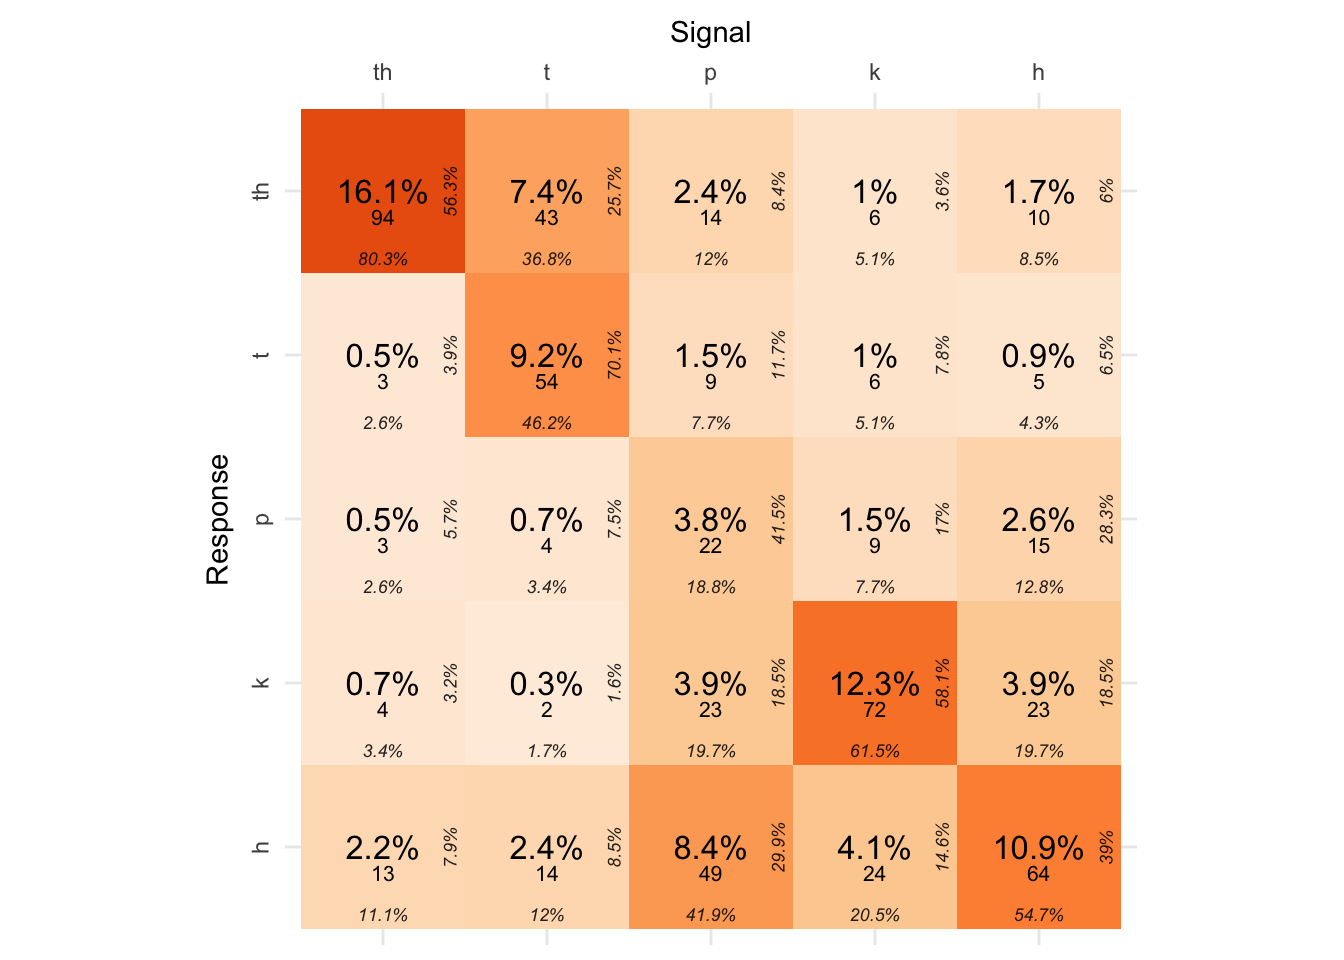
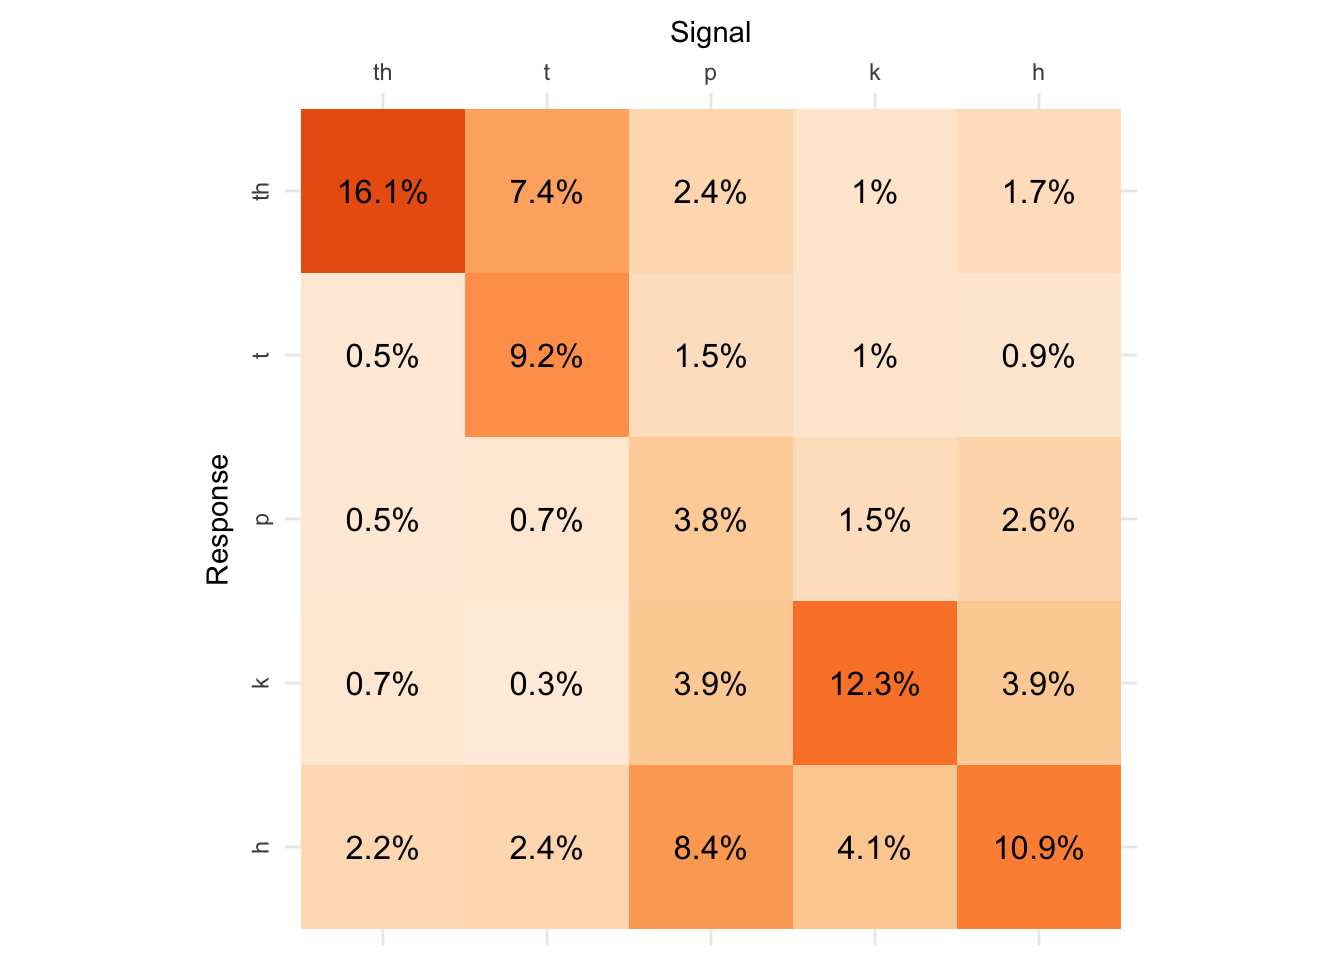
conf

diff --git a/docs/Confusion.html b/docs/Confusion.html
@@ -301,14 +301,14 @@ num_unique_participants</code></pre>
 <div id="clean" class="section level1">
 <h1>Clean</h1>
 <pre class="r"><code>conf_mat_clean &lt;- confusion_matrix(targets = data_clean$cons, predictions = data_clean$Response)
-clean &lt;- plot_confusion_matrix(conf_mat_clean$`Confusion Matrix`[[1]]) + ggplot2::labs(x = &quot;Signal&quot;, y = &quot;Response&quot;)
+clean &lt;- plot_confusion_matrix(conf_mat_clean$`Confusion Matrix`[[1]], add_counts = FALSE, add_row_percentages = FALSE, add_col_percentages = FALSE) + ggplot2::labs(x = &quot;Signal&quot;, y = &quot;Response&quot;)
 print(clean, show_percents =&quot;main&quot;)</code></pre>
 <p><img src="Confusion_files/figure-html/unnamed-chunk-2-1.png" width="672" /></p>
 </div>
 <div id="noise" class="section level1">
 <h1>Noise</h1>
 <pre class="r"><code>conf_mat_noise &lt;- confusion_matrix(targets = data_noise$cons, predictions = data_noise$Response)
-plot_confusion_matrix(conf_mat_noise$`Confusion Matrix`[[1]], palette = &quot;Oranges&quot;) + ggplot2::labs(x = &quot;Signal&quot;, y = &quot;Response&quot;)</code></pre>
+plot_confusion_matrix(conf_mat_noise$`Confusion Matrix`[[1]], add_counts = FALSE, add_row_percentages = FALSE, add_col_percentages = FALSE, palette = &quot;Oranges&quot;) + ggplot2::labs(x = &quot;Signal&quot;, y = &quot;Response&quot;)</code></pre>
 <p><img src="Confusion_files/figure-html/unnamed-chunk-3-1.png" width="672" /></p>
 <p>Note that the <code>echo = FALSE</code> parameter was added to the
 code chunk to prevent printing of the R code that generated the
